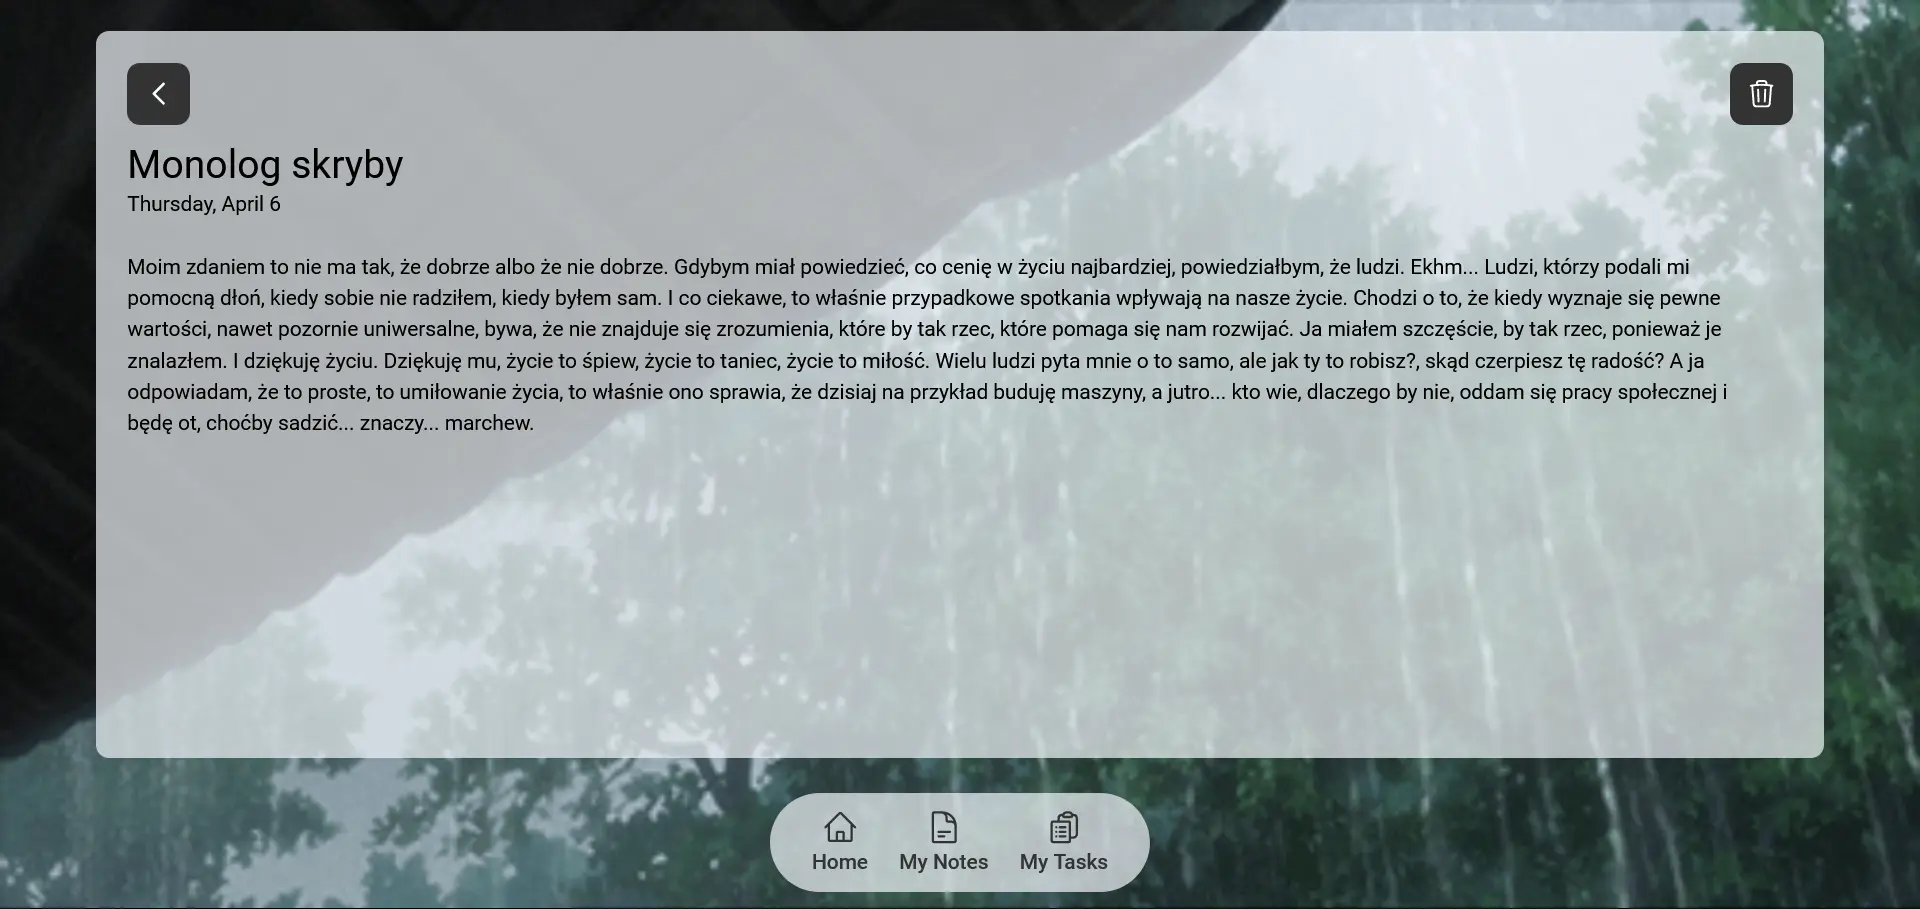
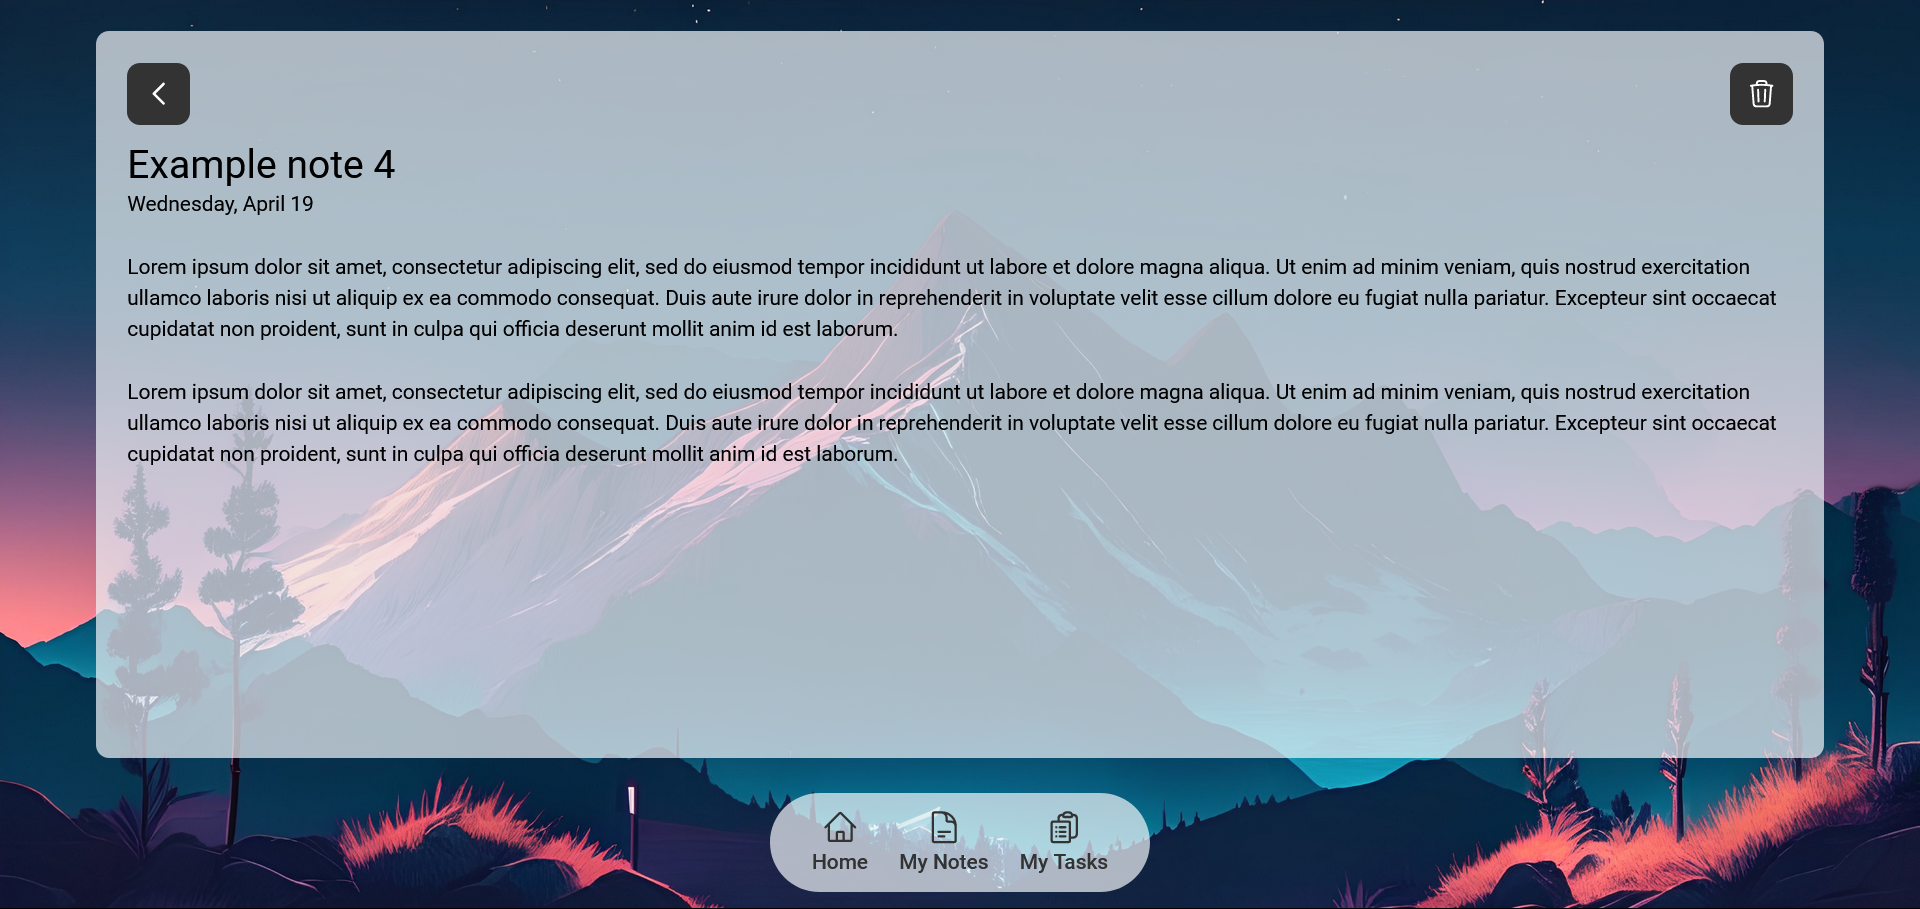
Added volume changing and updated background

diff --git a/src/custom-theme.scss b/src/custom-theme.scss
@@ -1,38 +1,64 @@
-
-// Custom Theming for Angular Material
-// For more information: https://material.angular.io/guide/theming
-@use '@angular/material' as mat;
+@use "@angular/material" as mat;
 // Plus imports for other components in your app.
 
-// Include the common styles for Angular Material. We include this here so that you only
-// have to load a single css file for Angular Material in your app.
-// Be sure that you only ever include this mixin once!
 @include mat.core();
+
+/* For use in src/lib/core/theming/_palette.scss */
+$md-mcgpalette0: (
+  50: #e7e7e7,
+  100: #c2c2c2,
+  200: #999999,
+  300: #707070,
+  400: #525252,
+  500: #333333,
+  600: #2e2e2e,
+  700: #272727,
+  800: #202020,
+  900: #141414,
+  A100: #ef6e6e,
+  A200: #ea4040,
+  A400: #f60000,
+  A700: #dd0000,
+  contrast: (
+    50: #000000,
+    100: #000000,
+    200: #000000,
+    300: #ffffff,
+    400: #ffffff,
+    500: #ffffff,
+    600: #ffffff,
+    700: #ffffff,
+    800: #ffffff,
+    900: #ffffff,
+    A100: #000000,
+    A200: #ffffff,
+    A400: #ffffff,
+    A700: #ffffff,
+  ),
+);
 
 // Define the palettes for your theme using the Material Design palettes available in palette.scss
 // (imported above). For each palette, you can optionally specify a default, lighter, and darker
 // hue. Available color palettes: https://material.io/design/color/
-$planner-primary: mat.define-palette(mat.$indigo-palette);
+$planner-primary: mat.define-palette($md-mcgpalette0);
 $planner-accent: mat.define-palette(mat.$pink-palette, A200, A100, A400);
 
 // The warn palette is optional (defaults to red).
 $planner-warn: mat.define-palette(mat.$red-palette);
 
-
 // Create the theme object. A theme consists of configurations for individual
 // theming systems such as "color" or "typography".
-$planner-theme: mat.define-light-theme((
-  color: (
-    primary: $planner-primary,
-    accent: $planner-accent,
-    warn: $planner-warn,
+$planner-theme: mat.define-light-theme(
+  (
+    color: (
+      primary: $planner-primary,
+      accent: $planner-accent,
+      warn: $planner-warn,
+    ),
   )
-));
-
-
+);
 
 // Include theme styles for core and each component used in your app.
 // Alternatively, you can import and @include the theme mixins for each component
 // that you are using.
 @include mat.all-component-themes($planner-theme);
-

diff --git a/src/app/focus-mode/player/player.component.html b/src/app/focus-mode/player/player.component.html
@@ -118,6 +118,58 @@
       </button>
     </div>
 
+    <div class="flex items-center mb-3">
+      <button
+        (click)="
+          musicService.isMuted = !musicService.isMuted; musicService.muteSound()
+        "
+      >
+        <svg
+          *ngIf="musicService.isMuted"
+          class="h-6 w-6"
+          fill="none"
+          stroke="currentColor"
+          stroke-width="1.5"
+          viewBox="0 0 24 24"
+          xmlns="http://www.w3.org/2000/svg"
+          aria-hidden="true"
+        >
+          <path
+            stroke-linecap="round"
+            stroke-linejoin="round"
+            d="M17.25 9.75L19.5 12m0 0l2.25 2.25M19.5 12l2.25-2.25M19.5 12l-2.25 2.25m-10.5-6l4.72-4.72a.75.75 0 011.28.531V19.94a.75.75 0 01-1.28.53l-4.72-4.72H4.51c-.88 0-1.704-.506-1.938-1.354A9.01 9.01 0 012.25 12c0-.83.112-1.633.322-2.395C2.806 8.757 3.63 8.25 4.51 8.25H6.75z"
+          ></path>
+        </svg>
+        <svg
+          *ngIf="!musicService.isMuted"
+          class="w-6 h-6"
+          fill="none"
+          stroke="currentColor"
+          stroke-width="1.5"
+          viewBox="0 0 24 24"
+          xmlns="http://www.w3.org/2000/svg"
+          aria-hidden="true"
+        >
+          <path
+            stroke-linecap="round"
+            stroke-linejoin="round"
+            d="M19.114 5.636a9 9 0 010 12.728M16.463 8.288a5.25 5.25 0 010 7.424M6.75 8.25l4.72-4.72a.75.75 0 011.28.53v15.88a.75.75 0 01-1.28.53l-4.72-4.72H4.51c-.88 0-1.704-.507-1.938-1.354A9.01 9.01 0 012.25 12c0-.83.112-1.633.322-2.396C2.806 8.756 3.63 8.25 4.51 8.25H6.75z"
+          ></path>
+        </svg>
+      </button>
+
+      <input
+        class="w-full ml-2 slider"
+        type="range"
+        min="0"
+        max="1"
+        value="1"
+        step="0.01"
+        (ngModelChange)="musicService.setVolume(musicService.volume)"
+        [(ngModel)]="musicService.volume"
+      />
+    </div>
+
     <div>
       <p class="text-xl font-[500]">{{ musicService.musicTitle }}</p>
       <p>{{ musicService.musicArtist }}</p>

diff --git a/src/app/focus-mode/focus-mode.component.html b/src/app/focus-mode/focus-mode.component.html
@@ -43,45 +43,6 @@
           ></path>
         </svg>
       </button>
-      <!-- <button
-        (click)="
-          musicService.isMuted = !musicService.isMuted; musicService.muteSound()
-        "
-        class="p-3 rounded-[10px] bg-slate-100 bg-opacity-70 backdrop-blur-sm"
-      >
-        <svg
-          *ngIf="musicService.isMuted"
-          class="h-6 w-6"
-          fill="none"
-          stroke="currentColor"
-          stroke-width="1.5"
-          viewBox="0 0 24 24"
-          xmlns="http://www.w3.org/2000/svg"
-          aria-hidden="true"
-        >
-          <path
-            stroke-linecap="round"
-            stroke-linejoin="round"
-            d="M17.25 9.75L19.5 12m0 0l2.25 2.25M19.5 12l2.25-2.25M19.5 12l-2.25 2.25m-10.5-6l4.72-4.72a.75.75 0 011.28.531V19.94a.75.75 0 01-1.28.53l-4.72-4.72H4.51c-.88 0-1.704-.506-1.938-1.354A9.01 9.01 0 012.25 12c0-.83.112-1.633.322-2.395C2.806 8.757 3.63 8.25 4.51 8.25H6.75z"
-          ></path>
-        </svg>
-        <svg
-          *ngIf="!musicService.isMuted"
-          class="w-6 h-6"
-          fill="none"
-          stroke="currentColor"
-          stroke-width="1.5"
-          viewBox="0 0 24 24"
-          xmlns="http://www.w3.org/2000/svg"
-          aria-hidden="true"
-        >
-          <path
-            stroke-linecap="round"
-            stroke-linejoin="round"
-            d="M19.114 5.636a9 9 0 010 12.728M16.463 8.288a5.25 5.25 0 010 7.424M6.75 8.25l4.72-4.72a.75.75 0 011.28.53v15.88a.75.75 0 01-1.28.53l-4.72-4.72H4.51c-.88 0-1.704-.507-1.938-1.354A9.01 9.01 0 012.25 12c0-.83.112-1.633.322-2.396C2.806 8.756 3.63 8.25 4.51 8.25H6.75z"
-          ></path>
-        </svg>
-      </button> -->
       <button
         (click)="toggleFullscreen()"
         class="p-3 rounded-[10px] bg-slate-100 bg-opacity-70 backdrop-blur-sm"

diff --git a/src/app/focus-mode/player/player.component.css b/src/app/focus-mode/player/player.component.css
@@ -1,0 +1,74 @@
+input[type="range"] {
+  -webkit-appearance: none;
+  appearance: none;
+  background: transparent;
+}
+
+input[type="range"]:focus {
+  outline: none;
+}
+
+/* WebKit */
+input[type="range"]::-webkit-slider-runnable-track {
+  width: 100%;
+  height: 5px;
+  cursor: pointer;
+  background: #000000;
+  border-radius: 5px;
+}
+
+input[type="range"]::-webkit-slider-thumb {
+  border: 1px solid #333;
+  height: 18px;
+  width: 18px;
+  border-radius: 25px;
+  background: #333;
+  cursor: pointer;
+  -webkit-appearance: none;
+  margin-top: -7px;
+}
+
+/* Mozilla */
+input[type="range"]::-moz-range-track {
+  height: 5px;
+  cursor: pointer;
+  background: #000000;
+  border-radius: 5px;
+}
+
+input[type="range"]::-moz-range-thumb {
+  height: 18px;
+  width: 18px;
+  border-radius: 25px;
+  border: none;
+  background: #333;
+  cursor: pointer;
+}
+
+/* Microsoft */
+input[type="range"]::-ms-track {
+  height: 5px;
+  cursor: pointer;
+  background: transparent;
+  border-color: transparent;
+  color: transparent;
+}
+
+input[type="range"]::-ms-fill-lower {
+  background: #333;
+  border-radius: 1px;
+}
+
+input[type="range"]::-ms-fill-upper {
+  background: #333;
+  border-radius: 1px;
+}
+
+input[type="range"]::-ms-thumb {
+  height: 18px;
+  width: 18px;
+  border-radius: 25px;
+  background: #333;
+  cursor: pointer;
+  border: 1px solid #333;
+}

diff --git a/src/app/app.module.ts b/src/app/app.module.ts
@@ -1,7 +1,7 @@
 import { NgModule } from '@angular/core';
 import { BrowserModule } from '@angular/platform-browser';
-
 import { AppRoutingModule } from './app-routing.module';
+
 import { AppComponent } from './app.component';
 import { MenuComponent } from './menu/menu.component';
 import { TodoComponent } from './todo/todo.component';
@@ -15,11 +15,13 @@ import { NoteMiniatureComponent } from './notepad/note-miniature/note-miniature.
 import { NewNoteComponent } from './notepad/new-note/new-note.component';
 import { NoteComponent } from './notepad/note/note.component';
 import { ConfirmDeletionComponent } from './notepad/note/confirm-deletion/confirm-deletion.component';
-import { MatDialogModule } from '@angular/material/dialog';
-import { MatChipsModule } from '@angular/material/chips';
 import { PlayerComponent } from './focus-mode/player/player.component';
 import { TimerComponent } from './focus-mode/timer/timer.component';
 import { GetNameComponent } from './get-name/get-name.component';
+
+import { MatDialogModule } from '@angular/material/dialog';
+import { MatChipsModule } from '@angular/material/chips';
+
 import { initializeApp } from 'firebase/app';
 import { firebaseConfig } from './firebase';
 

diff --git a/src/app/music.service.ts b/src/app/music.service.ts
@@ -17,6 +17,7 @@ export class MusicService {
   musicTitle!: string;
   lengthOfPlaylist!: number;
   isPlayerVisible = true;
+  volume = 1;
 
   constructor() {
     // play the next song when the current one ends
@@ -69,8 +70,12 @@ export class MusicService {
   }
 
   muteSound() {
-    this.isMuted ? (this.audio.volume = 0) : (this.audio.volume = 1);
-    console.log(this.audio.volume);
+    this.isMuted ? (this.audio.volume = 0) : (this.audio.volume = this.volume);
+  }
+
+  setVolume(volume: number) {
+    // set the volume of the audio based on the slider value
+    this.audio.volume = volume;
   }
 
   nextSong() {

diff --git a/src/app/app.component.html b/src/app/app.component.html
@@ -1,4 +1,4 @@
-<div class="animatedBackground w-screen h-screen max-h-screen overflow-hidden">
+<div class="Background w-screen h-screen max-h-screen overflow-hidden">
   <app-get-name
     [@toggleVisibility]
     class="w-full h-screen flex items-center"

diff --git a/src/app/app.component.css b/src/app/app.component.css
@@ -1,5 +1,5 @@
-.animatedBackground {
-  background-image: url(../assets/Images/nature.gif);
+.Background {
+  background-image: url(../assets/Images/bg1.jpeg);
   background-repeat: no-repeat;
   background-size: cover;
 }

diff --git a/src/app/todo/item/item.component.css b/src/app/todo/item/item.component.css
@@ -25,7 +25,7 @@
 }
 
 .custom-checkbox:checked {
-  background-color: #4e54c8;
+  background-color: #333333;
 }
 .custom-checkbox:checked::after {
   display: block;

diff --git a/README.md b/README.md
@@ -1,5 +1,7 @@
 # Nirvana - Productivity Assistant
 
+⚠ The application interface is currently updated and may differ between the live and developer versions.
+
 ## Live example 🌐
 
 https://nirvana-cf5b9.web.app
@@ -33,16 +35,6 @@ The main goal is to make an all-in-one productivity application, designed to hel
 
 - creating user-written notes
 - Editing and deleting existing notes
-
-## Future updates ⌛
-
-**To do list**
-
-- Sorting
-
-**Music player**
-
-- More music genres
 
 ## Technological facilities 🛠
 
@@ -91,9 +83,9 @@ Your application is ready at port 4200.
 ## License and Copyrights 📜
 
 - The application is publicly available under the MIT license.
-- The project is educational and is not used for commercial purposes
+- The project is educational and is not used for commercial purposes.
 - Music was taken from https://pixabay.com and is not mine. To honor the authors, my music player also displays the artist name.
-- Animated background of the application is a GIF taken from https://giphy.com
+- The image used as background was generated by AI from https://stablecog.com
 
 ## Special thanks 🙏🏽
 
